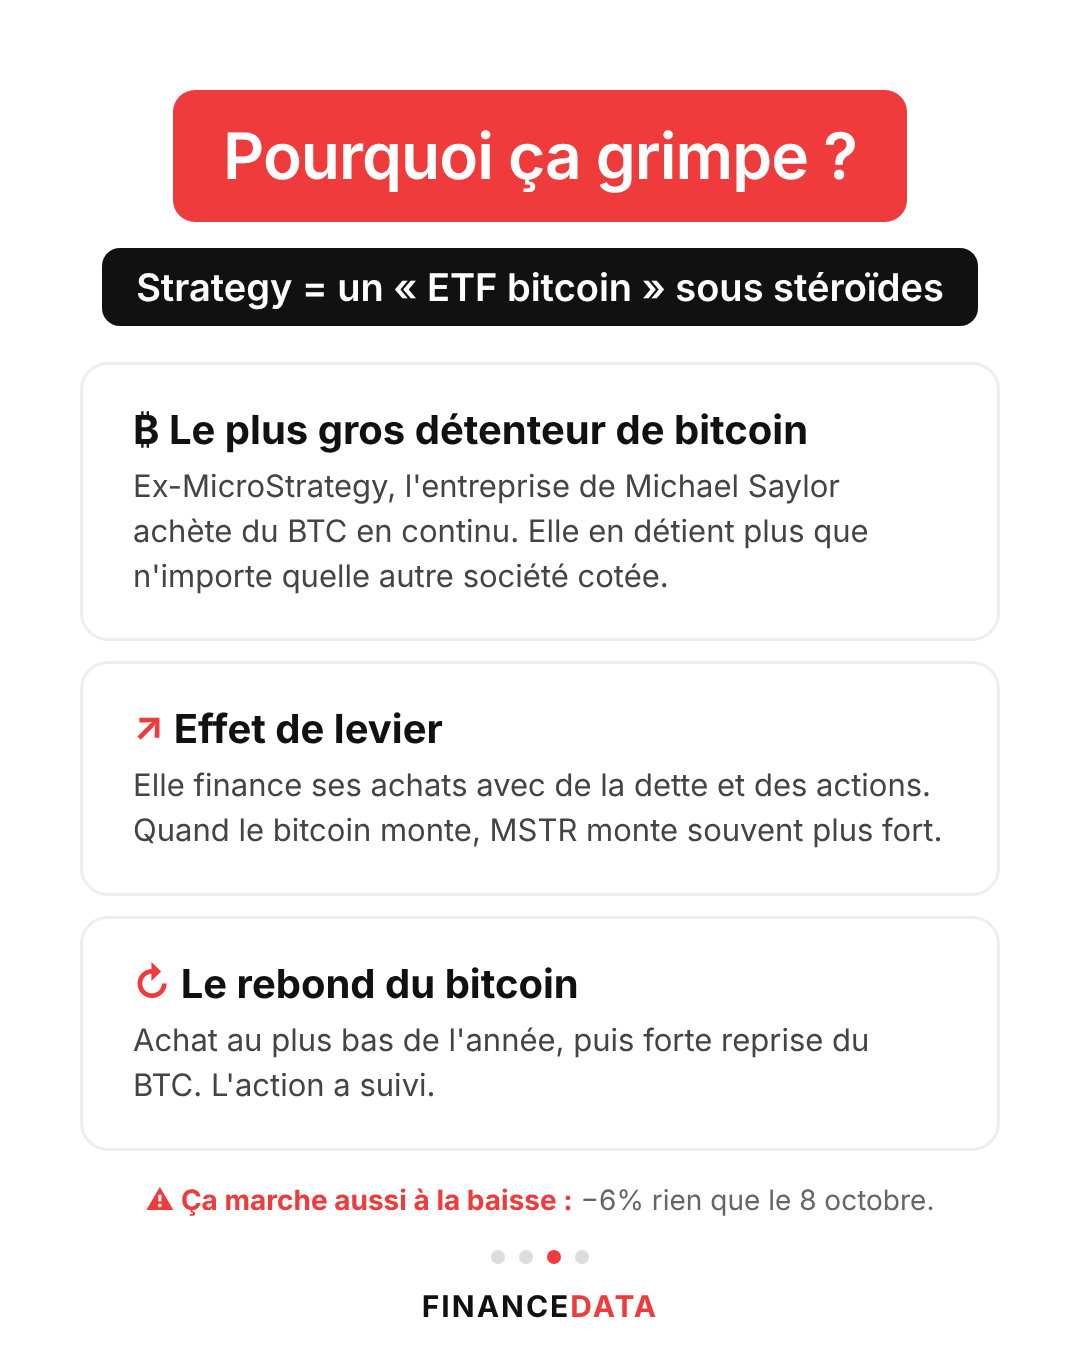
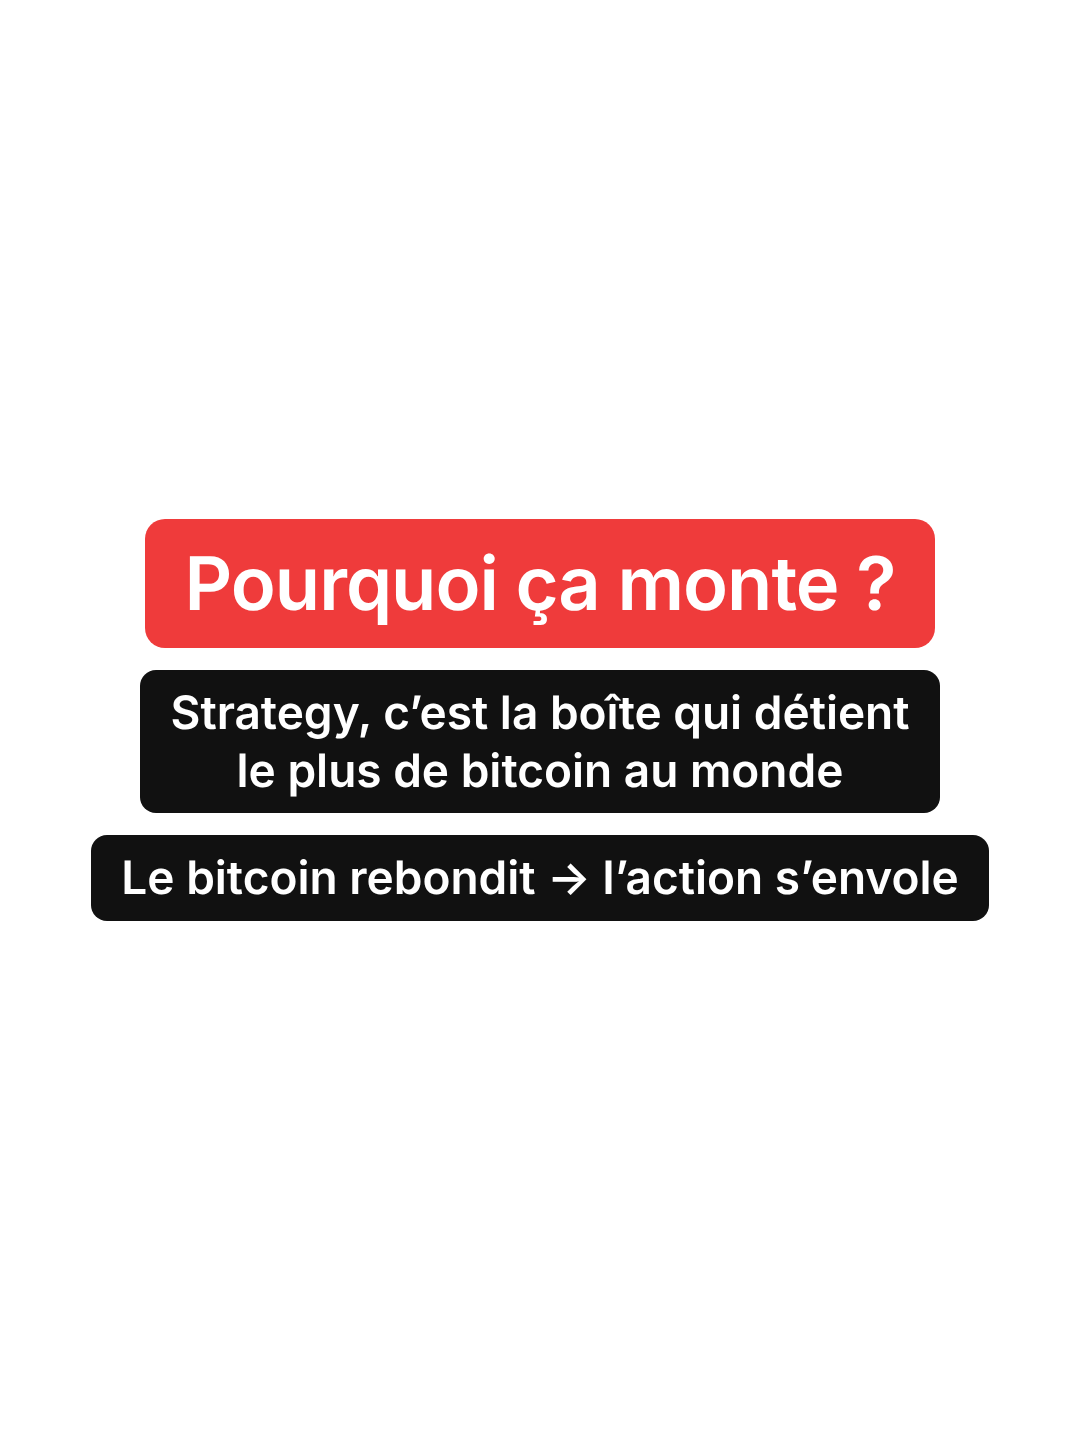
Simplify MSTR carousel to minimal TikTok style
Claude-Session: https://claude.ai/code/session_01GYU7oXgzPVMBoK87VKvHJh

diff --git a/carrousel-mstr/base.css b/carrousel-mstr/base.css
@@ -1,11 +1,8 @@
 *{margin:0;padding:0;box-sizing:border-box}
-html,body{width:1080px;height:1350px;background:#fff;font-family:Inter,sans-serif;color:#111;overflow:hidden}
-.page{position:relative;width:1080px;height:1350px;padding:90px 80px 50px;display:flex;flex-direction:column;align-items:center}
-.red{background:#ef3b3b;color:#fff;border-radius:22px;padding:30px 50px;font-weight:600;font-size:76px;line-height:1.12;text-align:center;letter-spacing:-1px}
-.pill{background:#111;color:#fff;border-radius:18px;padding:16px 34px;font-weight:600;font-size:44px;margin-top:26px;text-align:center}
-.small{font-size:30px;color:#666;text-align:center;line-height:1.4}
-.brand{margin-top:24px;text-align:center;font-weight:700;font-size:30px;letter-spacing:2px;color:#111}
-.brand span{color:#ef3b3b}
-.dots{margin-top:auto;padding-top:30px;display:flex;justify-content:center;gap:14px}
-.dots i{width:14px;height:14px;border-radius:50%;background:#ddd}.dots i.on{background:#ef3b3b}
-.card{width:100%;border:3px solid #eee;border-radius:28px;padding:40px 50px}
+html,body{width:1080px;height:1440px;background:#fff;font-family:Inter,sans-serif;overflow:hidden}
+.page{width:1080px;height:1440px;display:flex;flex-direction:column;align-items:center;justify-content:center;padding:0 70px;gap:22px;text-align:center}
+.red{background:#ef3b3b;color:#fff;border-radius:20px;padding:22px 40px;font-weight:600;font-size:74px;line-height:1.15;letter-spacing:-1px}
+.blk{background:#111;color:#fff;border-radius:16px;padding:14px 30px;font-weight:600;font-size:46px;line-height:1.25}
+.wht{background:#fff;color:#111;border-radius:16px;padding:14px 30px;font-weight:600;font-size:46px;line-height:1.25;box-shadow:0 0 0 2px #eee}
+.out{color:#fff;font-weight:700;font-size:40px;text-shadow:-2px -2px 0 #111,2px -2px 0 #111,-2px 2px 0 #111,2px 2px 0 #111,0 2px 0 #111,0 -2px 0 #111,2px 0 0 #111,-2px 0 0 #111}
+.photo{width:620px;height:720px;border:4px dashed #ddd;border-radius:24px;display:flex;align-items:center;justify-content:center;color:#aaa;font-size:30px;margin-top:20px}

diff --git a/carrousel-mstr/slide3.html b/carrousel-mstr/slide3.html
@@ -1,10 +1,1 @@
-<!doctype html><html><head><meta charset="utf-8"><link rel="stylesheet" href="base.css"></head><body><div class="page">
-<div class="red" style="font-size:64px">Pourquoi ça grimpe ?</div>
-<div class="pill" style="font-size:38px">Strategy = un « ETF bitcoin » sous stéroïdes</div>
-<div style="margin-top:36px;width:100%;display:flex;flex-direction:column;gap:20px">
- <div class="card"><div style="font-size:40px;font-weight:700">₿ Le plus gros détenteur de bitcoin</div><div style="font-size:31px;color:#444;margin-top:10px;line-height:1.45">Ex-MicroStrategy, l'entreprise de Michael Saylor achète du BTC en continu. Elle en détient plus que n'importe quelle autre société cotée.</div></div>
- <div class="card"><div style="font-size:40px;font-weight:700"><span style="color:#ef3b3b">↗</span> Effet de levier</div><div style="font-size:31px;color:#444;margin-top:10px;line-height:1.45">Elle finance ses achats avec de la dette et des actions. Quand le bitcoin monte, MSTR monte souvent plus fort.</div></div>
- <div class="card"><div style="font-size:40px;font-weight:700"><span style="color:#ef3b3b">↻</span> Le rebond du bitcoin</div><div style="font-size:31px;color:#444;margin-top:10px;line-height:1.45">Achat au plus bas de l'année, puis forte reprise du BTC. L'action a suivi.</div></div>
-</div>
-<div class="small" style="margin-top:30px;font-size:28px"><b style="color:#ef3b3b">⚠ Ça marche aussi à la baisse :</b> −6% rien que le 8 octobre.</div>
-<div class="dots"><i></i><i></i><i class="on"></i><i></i></div><div class="brand">FINANCE<span>DATA</span></div></div></body></html>
+<!doctype html><html><head><meta charset="utf-8"><link rel="stylesheet" href="base.css"></head><body><div class="page"><div class="red">Pourquoi ça monte ?</div><div class="blk">Strategy, c’est la boîte qui détient<br>le plus de bitcoin au monde</div><div class="blk">Le bitcoin rebondit → l’action s’envole</div></div></body></html>

diff --git a/carrousel-mstr/slide2.html b/carrousel-mstr/slide2.html
@@ -1,16 +1,1 @@
-<!doctype html><html><head><meta charset="utf-8"><link rel="stylesheet" href="base.css"></head><body><div class="page">
-<div class="red" style="font-size:64px">Le timing de l'achat</div>
-<div class="pill" style="font-size:38px">Strategy Inc. (MSTR) · Nasdaq</div>
-<div class="card" style="margin-top:50px;display:flex;justify-content:space-between;align-items:center">
- <div><div class="small" style="text-align:left">Achat · 24 juil. 2026</div><div style="font-size:84px;font-weight:700">91,67$</div></div>
- <div style="font-size:70px;color:#bbb">→</div>
- <div style="text-align:right"><div class="small" style="text-align:right">Aujourd'hui · 8 oct.</div><div style="font-size:84px;font-weight:700">~151$</div></div>
-</div>
-<div style="margin-top:28px;background:#e8f8ee;color:#119c4b;border-radius:28px;width:100%;padding:24px;text-align:center;font-size:120px;font-weight:800;letter-spacing:-3px">+65%</div>
-<div class="card" style="margin-top:36px;font-size:34px;line-height:1.55">
- <b>24 juillet :</b> achat de 1 001$ à 15 000$<br>
- <b>27 juillet :</b> achat de 50 001$ à 100 000$<br>
- <span style="color:#666;font-size:30px">Au plus bas de 2026 (plus bas annuel ~82$)</span>
-</div>
-<div class="small" style="margin-top:28px;font-size:24px">Source : formulaire OGE 278-T publié en sept. 2026. Comptes gérés par un gestionnaire tiers de façon discrétionnaire.</div>
-<div class="dots"><i></i><i class="on"></i><i></i><i></i></div><div class="brand">FINANCE<span>DATA</span></div></div></body></html>
+<!doctype html><html><head><meta charset="utf-8"><link rel="stylesheet" href="base.css"></head><body><div class="page"><div class="blk">24 juillet 2026</div><div class="red" style="font-size:110px">91$</div><div style="height:60px"></div><div class="blk">aujourd’hui</div><div class="red" style="font-size:110px;background:#16a34a">151$ (+65%)</div></div></body></html>

diff --git a/carrousel-mstr/slide4.html b/carrousel-mstr/slide4.html
@@ -1,10 +1,1 @@
-<!doctype html><html><head><meta charset="utf-8"><link rel="stylesheet" href="base.css"></head><body><div class="page">
-<div style="flex:1;display:flex;flex-direction:column;justify-content:center;align-items:center;width:100%">
-<div class="red" style="font-size:70px">Ne ratez plus les achats des insiders</div>
-<div class="pill" style="font-size:40px">Politiques · Dirigeants · Fonds</div>
-<div style="margin-top:70px;font-size:40px;line-height:1.5;text-align:center;color:#333">Chaque semaine, on décrypte<br>qui achète quoi <b>et pourquoi</b>.</div>
-<div style="margin-top:70px;background:#111;color:#fff;border-radius:999px;padding:30px 70px;font-size:48px;font-weight:700">Abonnez-vous</div>
-<div class="small" style="margin-top:30px">Et partagez à un ami qui investit</div>
-</div>
-<div class="small" style="font-size:22px;margin-bottom:0">Ceci n'est pas un conseil en investissement.</div>
-<div class="dots"><i></i><i></i><i></i><i class="on"></i></div><div class="brand">FINANCE<span>DATA</span></div></div></body></html>
+<!doctype html><html><head><meta charset="utf-8"><link rel="stylesheet" href="base.css"></head><body><div class="page"><div class="red">Abonne-toi</div><div class="blk">pour suivre les achats des insiders</div></div></body></html>

diff --git a/carrousel-mstr/slide1.html b/carrousel-mstr/slide1.html
@@ -1,7 +1,1 @@
-<!doctype html><html><head><meta charset="utf-8"><link rel="stylesheet" href="base.css"></head><body><div class="page">
-<div class="red">Trump a acheté jusqu'à 115 000$ d'actions MSTR</div>
-<div class="pill">L'action est en hausse de +65% depuis</div>
-<div class="small" style="margin-top:34px;font-weight:600;color:#111">Lisez la description ↓</div>
-<div style="flex:1;width:100%;margin-top:50px;margin-bottom:0;border:4px dashed #ddd;border-radius:28px;display:flex;align-items:center;justify-content:center" class="small">[ Photo détourée de Donald Trump ]</div>
-
-<div class="dots"><i class="on"></i><i></i><i></i><i></i></div><div class="brand">FINANCE<span>DATA</span></div></div></body></html>
+<!doctype html><html><head><meta charset="utf-8"><link rel="stylesheet" href="base.css"></head><body><div class="page"><div class="red">Trump a acheté des actions MSTR</div><div class="blk">L’action est en hausse de +65% depuis</div><div class="out">Lisez la description ↓</div><div class="photo">[ photo Trump détourée ]</div></div></body></html>
